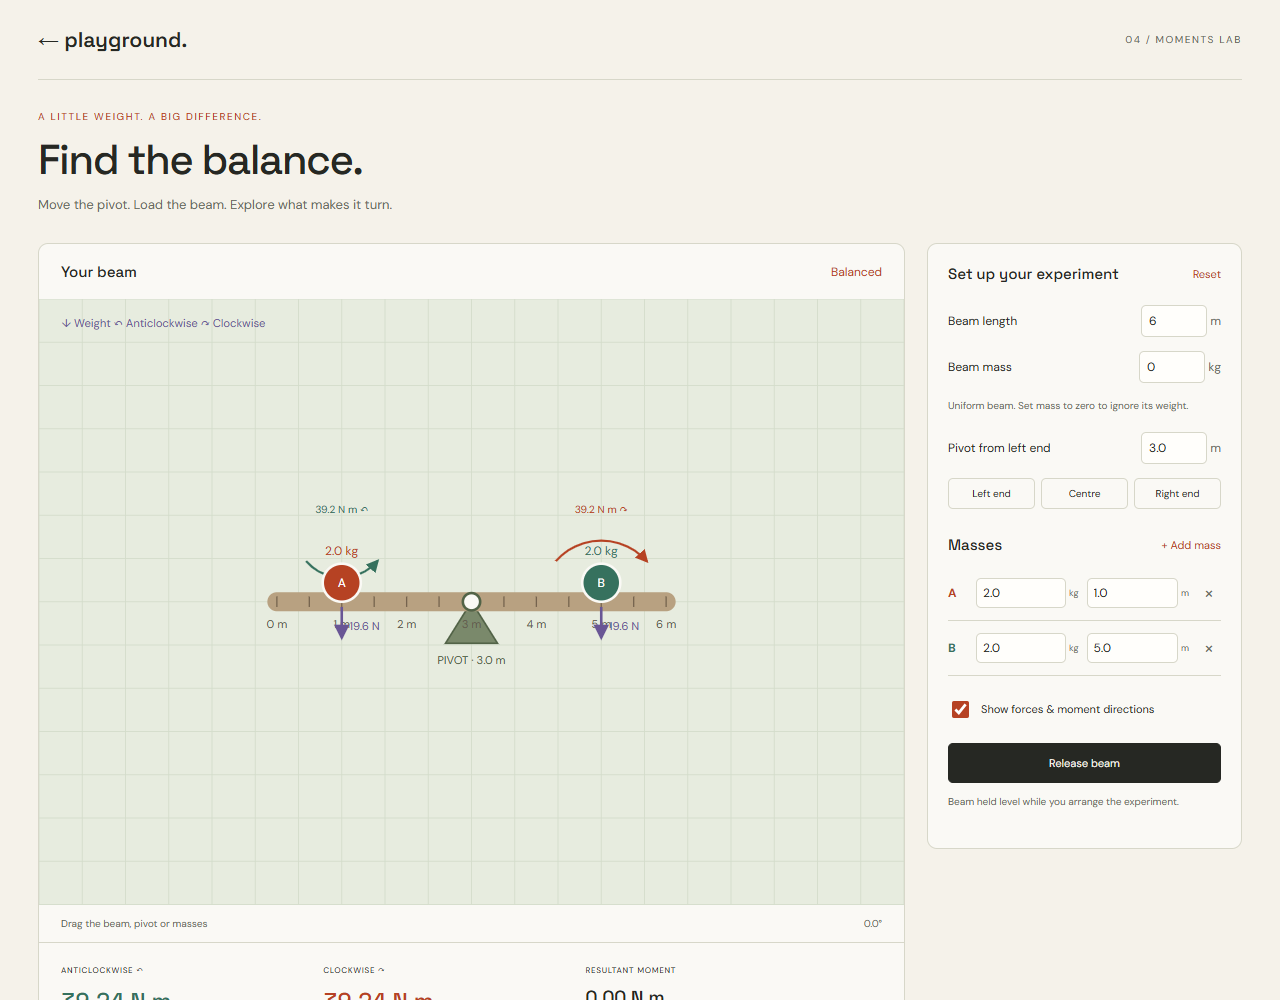
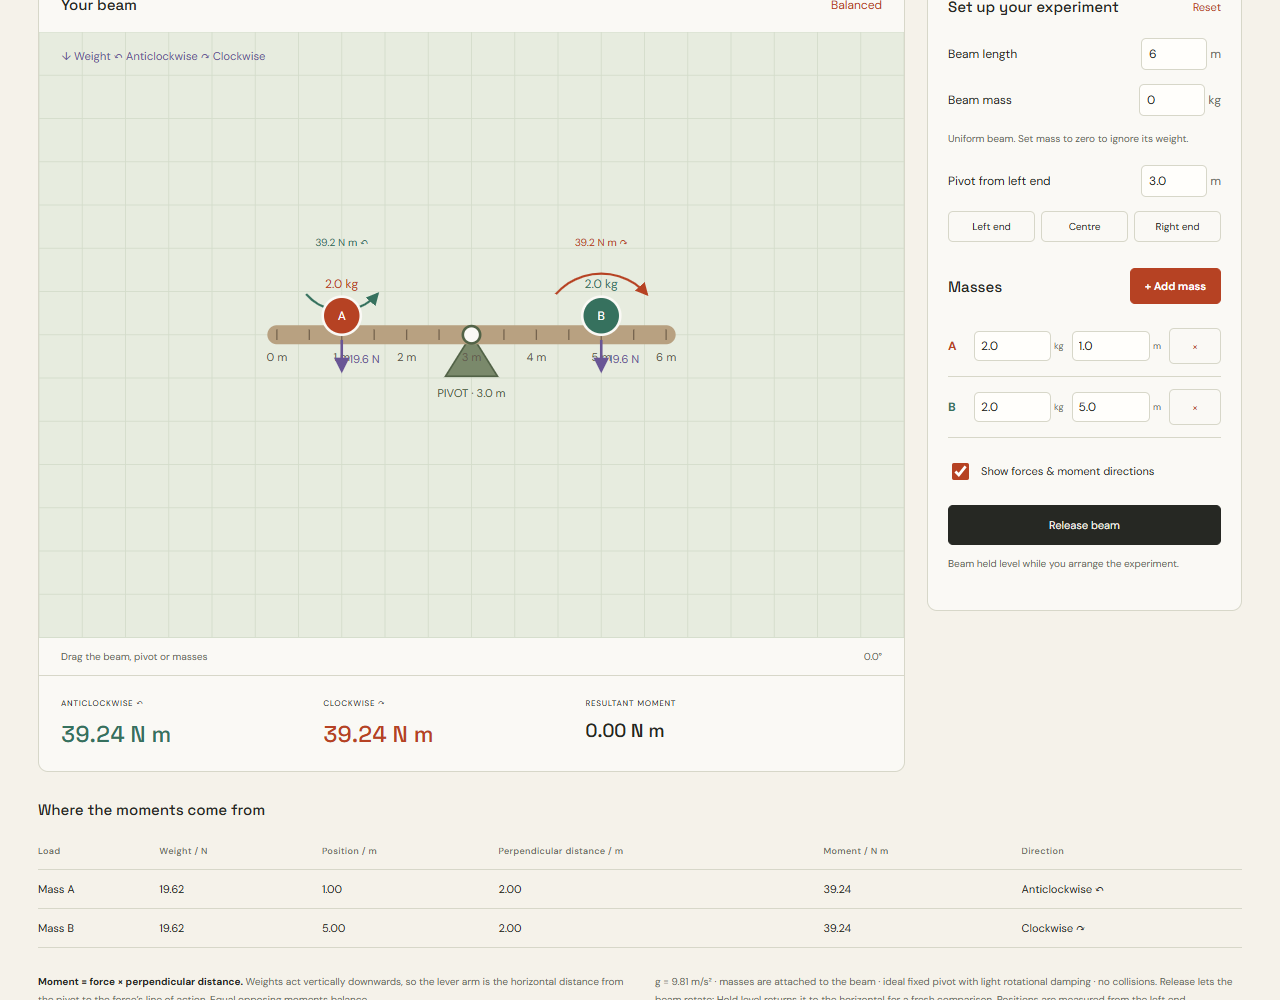
Keep beam scale fixed when moving pivot and clarify mass controls

diff --git a/moments/simulation.js b/moments/simulation.js
@@ -6,7 +6,9 @@
  const clamp=(v,a,b)=>Math.max(a,Math.min(b,v));
  const fmt=(v,n=2)=>(Math.abs(v)<.0005?0:v).toFixed(n);
  const name=id=>String.fromCharCode(65+(id-1)%26);
- function scale(){return Math.min(75,270/Math.max(state.pivot,state.length-state.pivot));}
+ function scale(){return 75;}
+ function setPivot(value){hold();state.x+=(value-state.pivot)*scale();state.pivot=value;}
+ function moveBeam(dx,dy){const offset=(state.length/2-state.pivot)*scale();state.x=clamp(state.x+offset+dx,320,680)-offset;state.y=clamp(state.y+dy,290,410); }
  function point(position){const d=(position-state.pivot)*scale();return {x:state.x+d*Math.cos(state.angle),y:state.y+d*Math.sin(state.angle)};}
  function loads(){const a=state.masses.map(m=>({...m,label:'Mass '+name(m.id)}));if(state.beamMass>0)a.push({id:0,kg:state.beamMass,position:state.length/2,label:'Beam'});return a;}
  function calculate(){let cw=0,ccw=0;const rows=loads().map(m=>{const arm=(m.position-state.pivot)*Math.cos(state.angle),force=m.kg*G,moment=arm*force;if(moment>0)cw+=moment;else ccw-=moment;return {...m,arm,force,moment};});return {cw,ccw,net:cw-ccw,rows};}
@@ -15,6 +17,8 @@
  function node(tag,attrs={},text){const el=document.createElementNS(NS,tag);for(const [k,v]of Object.entries(attrs))el.setAttribute(k,v);if(text!==undefined)el.textContent=text;return el;}
  function draw(){
   const svg=$('scene'),group=node('g');
+  const radius=Math.max(state.pivot,state.length-state.pivot)*scale()+110;
+  svg.setAttribute('viewBox',state.running?`${state.x-Math.max(500,radius)} ${state.y-Math.max(350,radius)} ${Math.max(1000,2*radius)} ${Math.max(700,2*radius)}`:'0 0 1000 700');
   const defs=node('defs');for(const [id,color]of [['weight','#695695'],['cw','#b64223'],['ccw','#36715e']]){const marker=node('marker',{id:'arrow-'+id,viewBox:'0 0 10 10',refX:8,refY:5,markerWidth:6,markerHeight:6,orient:'auto-start-reverse'});marker.append(node('path',{d:'M 0 0 L 10 5 L 0 10 z',fill:color}));defs.append(marker);}group.append(defs);
   for(let x=0;x<=1000;x+=50)group.append(node('line',{x1:x,y1:0,x2:x,y2:700,stroke:'#d4ddca','stroke-width':1}));
   for(let y=0;y<=700;y+=50)group.append(node('line',{x1:0,y1:y,x2:1000,y2:y,stroke:'#d4ddca','stroke-width':1}));
@@ -38,13 +42,13 @@
  function hold(){state.running=false;state.angle=0;state.omega=0;$('release').textContent='Release beam';$('mode-note').textContent='Beam held level while you arrange the experiment.';}
  function fields(){ $('length').value=state.length;$('beam-mass').value=state.beamMass;$('pivot').max=state.length;$('pivot').value=fmt(state.pivot,1);$('vectors').checked=state.vectors;const list=$('masses');list.replaceChildren();for(const m of state.masses){const row=document.createElement('div');row.className='mass-row';const label=document.createElement('span');label.className='mass-name';label.textContent=name(m.id);label.style.color=colors[(m.id-1)%colors.length];row.append(label);for(const [key,unit,min,max]of [['kg','kg',.1,20],['position','m',0,state.length]]){const l=document.createElement('label'),input=document.createElement('input');input.type='number';input.min=min;input.max=max;input.step=.1;input.value=fmt(m[key],1);input.setAttribute('aria-label','Mass '+name(m.id)+' '+(key==='kg'?'in kilograms':'position in metres'));input.addEventListener('change',()=>{const v=input.valueAsNumber;if(!Number.isFinite(v)){input.value=fmt(m[key],1);return;}m[key]=clamp(v,min,max);input.value=fmt(m[key],1);hold();table();});l.append(input,document.createTextNode(unit));row.append(l);}const remove=document.createElement('button');remove.className='remove';remove.textContent='×';remove.setAttribute('aria-label','Remove mass '+name(m.id));remove.addEventListener('click',()=>{state.masses=state.masses.filter(v=>v.id!==m.id);hold();fields();table();$('add').focus();});row.append(remove);list.append(row);}$('add').disabled=state.masses.length>=8;}
  function reset(){Object.assign(state,{length:6,pivot:3,beamMass:0,x:500,y:350,angle:0,omega:0,running:false,vectors:true,nextId:3,masses:[{id:1,kg:2,position:1},{id:2,kg:2,position:5}]});drag=null;hold();fields();table();draw();}
- for(const [id,key,min,max]of [['length','length',2,8],['beam-mass','beamMass',0,20],['pivot','pivot',0,8]])$(id).addEventListener('change',e=>{const value=e.target.valueAsNumber;if(!Number.isFinite(value)){fields();return;}state[key]=clamp(value,min,key==='pivot'?state.length:max);state.pivot=Math.min(state.pivot,state.length);for(const m of state.masses)m.position=Math.min(m.position,state.length);hold();fields();table();});
- document.querySelectorAll('[data-pivot]').forEach(b=>b.addEventListener('click',()=>{state.pivot=state.length*Number(b.dataset.pivot);hold();fields();table();}));
+ for(const [id,key,min,max]of [['length','length',2,8],['beam-mass','beamMass',0,20],['pivot','pivot',0,8]])$(id).addEventListener('change',e=>{const value=e.target.valueAsNumber;if(!Number.isFinite(value)){fields();return;}const centre=state.x+(state.length/2-state.pivot)*scale();state[key]=clamp(value,min,key==='pivot'?state.length:max);state.pivot=Math.min(state.pivot,state.length);state.x=centre+(state.pivot-state.length/2)*scale();for(const m of state.masses)m.position=Math.min(m.position,state.length);hold();fields();table();});
+ document.querySelectorAll('[data-pivot]').forEach(b=>b.addEventListener('click',()=>{setPivot(state.length*Number(b.dataset.pivot));fields();table();}));
  $('add').addEventListener('click',()=>{if(state.masses.length>=8)return;const id=state.nextId++;state.masses.push({id,kg:1,position:clamp(state.length/2+(state.masses.length%2?1:-1)*Math.ceil(state.masses.length/2)*.5,0,state.length)});hold();fields();table();const inputs=$('masses').querySelectorAll('input');inputs[inputs.length-2].focus();});
  $('vectors').addEventListener('change',e=>{state.vectors=e.target.checked;});$('reset').addEventListener('click',reset);$('release').addEventListener('click',()=>{if(state.running)hold();else{state.running=true;$('release').textContent='Hold level';$('mode-note').textContent='Beam rotates about the pivot. Masses stay attached. Editing the setup holds it level again.';}});
- const svg=$('scene');svg.addEventListener('keydown',e=>{if(!['ArrowLeft','ArrowRight','ArrowUp','ArrowDown'].includes(e.key))return;e.preventDefault();hold();state.x=clamp(state.x+(e.key==='ArrowRight'?10:e.key==='ArrowLeft'?-10:0),320,680);state.y=clamp(state.y+(e.key==='ArrowDown'?10:e.key==='ArrowUp'?-10:0),290,410);});function coordinates(e){const p=svg.createSVGPoint();p.x=e.clientX;p.y=e.clientY;return p.matrixTransform(svg.getScreenCTM().inverse());}
+ const svg=$('scene');svg.addEventListener('keydown',e=>{if(!['ArrowLeft','ArrowRight','ArrowUp','ArrowDown'].includes(e.key))return;e.preventDefault();hold();moveBeam(e.key==='ArrowRight'?10:e.key==='ArrowLeft'?-10:0,e.key==='ArrowDown'?10:e.key==='ArrowUp'?-10:0);});function coordinates(e){const p=svg.createSVGPoint();p.x=e.clientX;p.y=e.clientY;return p.matrixTransform(svg.getScreenCTM().inverse());}
  svg.addEventListener('pointerdown',e=>{const target=e.target.closest('[data-drag]');if(!target||e.button!==0||drag)return;e.preventDefault();hold();const p=coordinates(e);drag={kind:target.dataset.drag,id:Number(target.dataset.id),pointer:e.pointerId,start:p,x:state.x,y:state.y,scale:scale(),pivot:state.pivot};svg.setPointerCapture(e.pointerId);});
- svg.addEventListener('pointermove',e=>{if(!drag||e.pointerId!==drag.pointer)return;const p=coordinates(e);if(drag.kind==='beam'){state.x=clamp(drag.x+p.x-drag.start.x,320,680);state.y=clamp(drag.y+p.y-drag.start.y,290,410);}else if(drag.kind==='pivot'){const pivot=clamp(drag.pivot+(p.x-drag.start.x)/drag.scale,0,state.length);state.pivot=Math.round(pivot*10)/10;state.x=clamp(drag.x+(state.pivot-drag.pivot)*drag.scale,320,680);$('pivot').value=fmt(state.pivot,1);}else{const m=state.masses.find(m=>m.id===drag.id);if(m)m.position=Math.round(clamp(state.pivot+(p.x-state.x)/scale(),0,state.length)*10)/10;}table();});
+ svg.addEventListener('pointermove',e=>{if(!drag||e.pointerId!==drag.pointer)return;const p=coordinates(e);if(drag.kind==='beam'){state.x=drag.x;state.y=drag.y;moveBeam(p.x-drag.start.x,p.y-drag.start.y);}else if(drag.kind==='pivot'){const pivot=clamp(drag.pivot+(p.x-drag.start.x)/drag.scale,0,state.length);state.pivot=Math.round(pivot*10)/10;state.x=drag.x+(state.pivot-drag.pivot)*drag.scale;$('pivot').value=fmt(state.pivot,1);}else{const m=state.masses.find(m=>m.id===drag.id);if(m)m.position=Math.round(clamp(state.pivot+(p.x-state.x)/scale(),0,state.length)*10)/10;}table();});
  function end(e){if(drag&&e.pointerId===drag.pointer){drag=null;fields();table();}}svg.addEventListener('pointerup',end);svg.addEventListener('pointercancel',end);svg.addEventListener('lostpointercapture',end);
  document.addEventListener('visibilitychange',()=>{last=0;accumulator=0;});
  function frame(now){if(last&&!document.hidden){accumulator+=Math.min((now-last)/1000,.1);while(accumulator>=1/120){step(1/120);accumulator-=1/120;}}last=now;draw();if(now-lastTable>100){table();lastTable=now;}requestAnimationFrame(frame);}

diff --git a/moments/index.html b/moments/index.html
@@ -12,7 +12,7 @@
 <label class="field">Beam mass <span><input id="beam-mass" type="number" min="0" max="20" step="0.5" value="0"> kg</span></label><p class="small">Uniform beam. Set mass to zero to ignore its weight.</p>
 <label class="field">Pivot from left end <span><input id="pivot" type="number" min="0" max="6" step="0.1" value="3"> m</span></label>
 <div class="presets" aria-label="Pivot positions"><button data-pivot="0">Left end</button><button data-pivot="0.5">Centre</button><button data-pivot="1">Right end</button></div>
-<div class="setting-heading masses-heading"><h2>Masses</h2><button id="add" class="text-button">+ Add mass</button></div><div id="masses"></div>
+<div class="setting-heading masses-heading"><h2>Masses</h2><button id="add" class="add-mass">+ Add mass</button></div><div id="masses"></div>
 <label class="toggle"><input id="vectors" type="checkbox" checked> Show forces &amp; moment directions</label>
 <button id="release" class="primary">Release beam</button><p class="small" id="mode-note">Beam held level while you arrange the experiment.</p>
 </aside></div>

diff --git a/moments/style.css b/moments/style.css
@@ -3,3 +3,5 @@
 
 #scene text{pointer-events:none}
 
+
+#scene{aspect-ratio:10/7}.add-mass{background:var(--orange);border-color:var(--orange);color:white;padding:10px 14px;font-weight:600}.mass-row{grid-template-columns:18px minmax(0,1fr) minmax(0,1fr) 52px}.remove{font-size:10px;min-height:36px;border:1px solid var(--line);padding:4px;color:var(--orange)}@media(max-width:900px){.settings .mass-row{grid-template-columns:22px minmax(0,1fr) minmax(0,1fr) 58px}}
